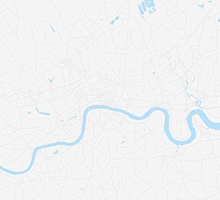
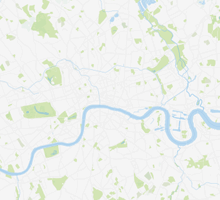
Add map copyright + green areas

diff --git a/src/Kachkaev/PhotoAssessmentBundle/Resources/assets/bem/blocks/b-photomap/b-photomap.scss b/src/Kachkaev/PhotoAssessmentBundle/Resources/assets/bem/blocks/b-photomap/b-photomap.scss
@@ -43,3 +43,16 @@
 	right: 0;
 	bottom: 0;
 }
+
+.b-photomap__copyright {
+    color: #888;
+    font-size: 10px;
+    line-height: 14px;
+    position: absolute;
+    right: 0;
+    top: 200px;
+    opacity: 0.6;
+    overflow: visible;
+    white-space: nowrap;
+    
+}
